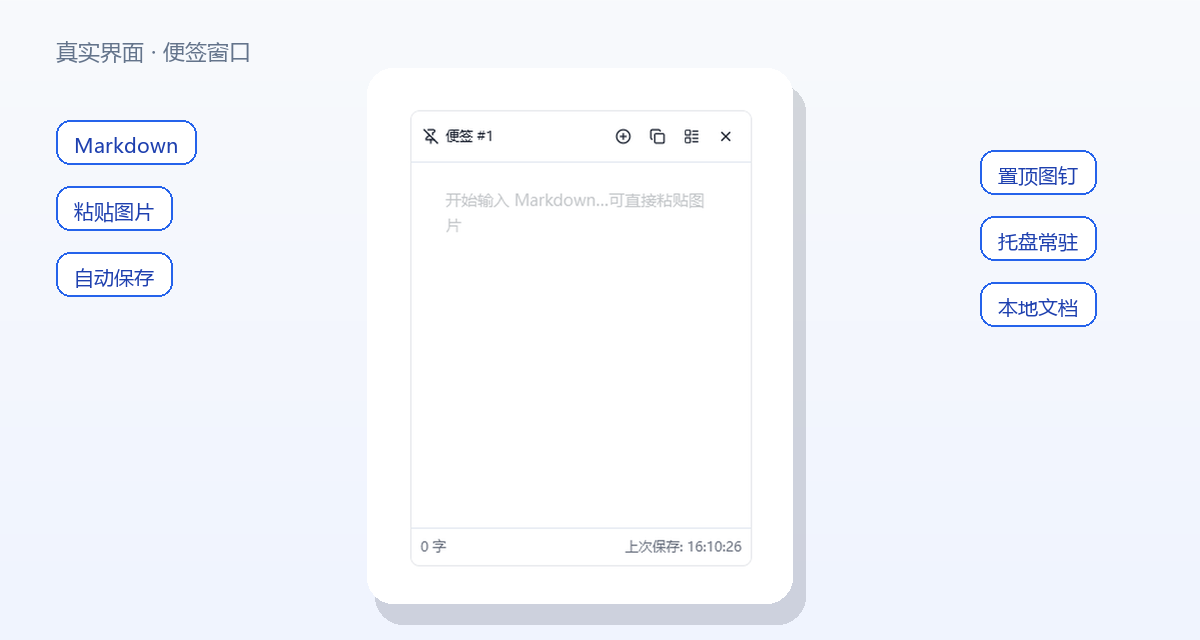
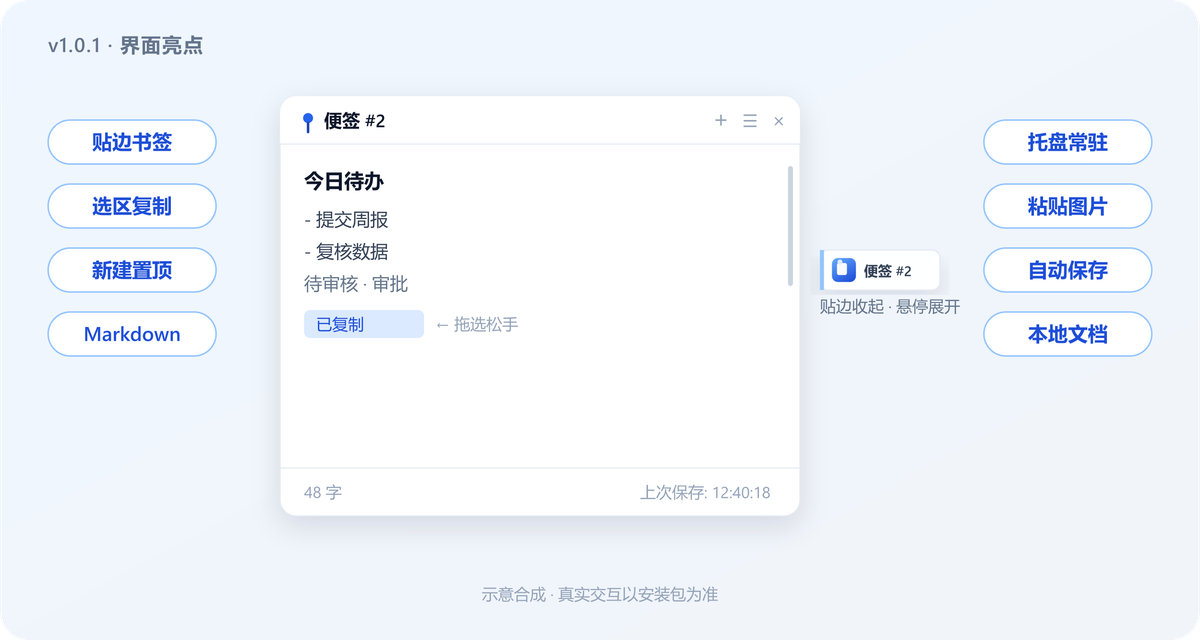
Docs: refresh README for v1.0.1 edge dock and copy features.
Update showcase/workflow visuals and link downloads to the GitHub release.

diff --git a/assets/readme/source/update_v101_visuals.py b/assets/readme/source/update_v101_visuals.py
@@ -1,0 +1,170 @@
+# -*- coding: utf-8 -*-
+"""Regenerate ArkNote README section visuals for v1.0.1 (hero PNG kept as-is)."""
+from pathlib import Path
+
+root = Path(r"D:\workspace\XYTX\ArkNote\assets\readme")
+root.mkdir(parents=True, exist_ok=True)
+
+workflow = """<?xml version="1.0" encoding="UTF-8"?>
+<svg xmlns="http://www.w3.org/2000/svg" width="100%" viewBox="0 0 1200 280" role="img" aria-labelledby="title desc">
+  <title id="title">ArkNote 工作方式</title>
+  <desc id="desc">托盘入口、贴边便签窗口与本地 Documents/ArkNote 目录协作。</desc>
+  <defs>
+    <linearGradient id="panel" x1="0" y1="0" x2="0" y2="1">
+      <stop offset="0%" stop-color="#FFFFFF"/>
+      <stop offset="100%" stop-color="#F8FAFC"/>
+    </linearGradient>
+  </defs>
+  <rect width="1200" height="280" rx="24" fill="#F1F5F9"/>
+  <g font-family="-apple-system, BlinkMacSystemFont, 'Segoe UI', 'PingFang SC', 'Microsoft YaHei', sans-serif">
+    <text x="48" y="48" fill="#64748B" font-size="18" font-weight="600" letter-spacing="1">HOW IT WORKS · v1.0.1</text>
+
+    <g transform="translate(48 72)">
+      <rect width="320" height="160" rx="20" fill="url(#panel)" stroke="#E2E8F0"/>
+      <circle cx="44" cy="44" r="18" fill="#DBEAFE"/>
+      <text x="38" y="51" fill="#1D4ED8" font-size="20" font-weight="700">1</text>
+      <text x="78" y="52" fill="#0F172A" font-size="24" font-weight="700">托盘</text>
+      <text x="28" y="96" fill="#475569" font-size="18">左键显示 · 右键设置</text>
+      <text x="28" y="126" fill="#475569" font-size="18">可选：新建默认置顶</text>
+    </g>
+
+    <path d="M388 152 L428 152" stroke="#93C5FD" stroke-width="3" stroke-linecap="round"/>
+    <path d="M416 140 L432 152 L416 164" fill="none" stroke="#60A5FA" stroke-width="3" stroke-linecap="round" stroke-linejoin="round"/>
+
+    <g transform="translate(440 72)">
+      <rect width="320" height="160" rx="20" fill="url(#panel)" stroke="#E2E8F0"/>
+      <circle cx="44" cy="44" r="18" fill="#DBEAFE"/>
+      <text x="38" y="51" fill="#1D4ED8" font-size="20" font-weight="700">2</text>
+      <text x="78" y="52" fill="#0F172A" font-size="24" font-weight="700">便签窗口</text>
+      <text x="28" y="96" fill="#475569" font-size="18">置顶贴边 → 书签收起</text>
+      <text x="28" y="126" fill="#475569" font-size="18">拖选松手自动复制</text>
+    </g>
+
+    <path d="M780 152 L820 152" stroke="#93C5FD" stroke-width="3" stroke-linecap="round"/>
+    <path d="M808 140 L824 152 L808 164" fill="none" stroke="#60A5FA" stroke-width="3" stroke-linecap="round" stroke-linejoin="round"/>
+
+    <g transform="translate(832 72)">
+      <rect width="320" height="160" rx="20" fill="url(#panel)" stroke="#E2E8F0"/>
+      <circle cx="44" cy="44" r="18" fill="#DBEAFE"/>
+      <text x="38" y="51" fill="#1D4ED8" font-size="20" font-weight="700">3</text>
+      <text x="78" y="52" fill="#0F172A" font-size="24" font-weight="700">本地目录</text>
+      <text x="28" y="96" fill="#475569" font-size="18">Documents/ArkNote</text>
+      <text x="28" y="126" fill="#475569" font-size="18">.md + .assets 清晰可管</text>
+    </g>
+  </g>
+</svg>
+"""
+
+showcase = """<?xml version="1.0" encoding="UTF-8"?>
+<svg xmlns="http://www.w3.org/2000/svg" width="100%" viewBox="0 0 1200 640" role="img" aria-labelledby="title desc">
+  <title id="title">ArkNote 1.0.1 界面亮点</title>
+  <desc id="desc">便签窗口、贴边书签、选区复制与托盘置顶等特性示意。</desc>
+  <defs>
+    <linearGradient id="bg" x1="0" y1="0" x2="1" y2="1">
+      <stop offset="0%" stop-color="#EFF6FF"/>
+      <stop offset="100%" stop-color="#F1F5F9"/>
+    </linearGradient>
+    <linearGradient id="mark" x1="0.2" y1="0" x2="0.8" y2="1">
+      <stop offset="0%" stop-color="#60A5FA"/>
+      <stop offset="100%" stop-color="#1D4ED8"/>
+    </linearGradient>
+    <filter id="cardShadow" x="-8%" y="-8%" width="116%" height="120%">
+      <feDropShadow dx="0" dy="10" stdDeviation="14" flood-color="#0F172A" flood-opacity="0.12"/>
+    </filter>
+  </defs>
+
+  <rect width="1200" height="640" rx="28" fill="url(#bg)"/>
+  <g font-family="-apple-system, BlinkMacSystemFont, 'Segoe UI', 'PingFang SC', 'Microsoft YaHei', sans-serif">
+    <text x="48" y="52" fill="#64748B" font-size="20" font-weight="600" letter-spacing="1">v1.0.1 · 界面亮点</text>
+
+    <!-- Left feature chips -->
+    <g transform="translate(48 120)">
+      <rect width="168" height="44" rx="22" fill="#FFFFFF" stroke="#93C5FD" stroke-width="1.5"/>
+      <text x="84" y="29" text-anchor="middle" fill="#1D4ED8" font-size="20" font-weight="600">贴边书签</text>
+    </g>
+    <g transform="translate(48 184)">
+      <rect width="168" height="44" rx="22" fill="#FFFFFF" stroke="#93C5FD" stroke-width="1.5"/>
+      <text x="84" y="29" text-anchor="middle" fill="#1D4ED8" font-size="20" font-weight="600">选区复制</text>
+    </g>
+    <g transform="translate(48 248)">
+      <rect width="168" height="44" rx="22" fill="#FFFFFF" stroke="#93C5FD" stroke-width="1.5"/>
+      <text x="84" y="29" text-anchor="middle" fill="#1D4ED8" font-size="20" font-weight="600">新建置顶</text>
+    </g>
+    <g transform="translate(48 312)">
+      <rect width="168" height="44" rx="22" fill="#FFFFFF" stroke="#93C5FD" stroke-width="1.5"/>
+      <text x="84" y="29" text-anchor="middle" fill="#1D4ED8" font-size="20" font-weight="600">Markdown</text>
+    </g>
+
+    <!-- Right feature chips -->
+    <g transform="translate(984 120)">
+      <rect width="168" height="44" rx="22" fill="#FFFFFF" stroke="#93C5FD" stroke-width="1.5"/>
+      <text x="84" y="29" text-anchor="middle" fill="#1D4ED8" font-size="20" font-weight="600">托盘常驻</text>
+    </g>
+    <g transform="translate(984 184)">
+      <rect width="168" height="44" rx="22" fill="#FFFFFF" stroke="#93C5FD" stroke-width="1.5"/>
+      <text x="84" y="29" text-anchor="middle" fill="#1D4ED8" font-size="20" font-weight="600">粘贴图片</text>
+    </g>
+    <g transform="translate(984 248)">
+      <rect width="168" height="44" rx="22" fill="#FFFFFF" stroke="#93C5FD" stroke-width="1.5"/>
+      <text x="84" y="29" text-anchor="middle" fill="#1D4ED8" font-size="20" font-weight="600">自动保存</text>
+    </g>
+    <g transform="translate(984 312)">
+      <rect width="168" height="44" rx="22" fill="#FFFFFF" stroke="#93C5FD" stroke-width="1.5"/>
+      <text x="84" y="29" text-anchor="middle" fill="#1D4ED8" font-size="20" font-weight="600">本地文档</text>
+    </g>
+
+    <!-- Main note window -->
+    <g transform="translate(280 96)" filter="url(#cardShadow)">
+      <rect width="520" height="420" rx="16" fill="#FFFFFF" stroke="#E2E8F0"/>
+      <!-- header -->
+      <rect width="520" height="48" rx="16" fill="#FFFFFF"/>
+      <rect y="32" width="520" height="16" fill="#FFFFFF"/>
+      <line x1="0" y1="48" x2="520" y2="48" stroke="#E2E8F0"/>
+      <!-- pin (active) -->
+      <g transform="translate(18 14)">
+        <circle cx="10" cy="8" r="5" fill="#2563EB"/>
+        <path d="M10 13 L10 22" stroke="#1E40AF" stroke-width="2.5" stroke-linecap="round"/>
+      </g>
+      <text x="44" y="31" fill="#0F172A" font-size="18" font-weight="600">便签 #2</text>
+      <text x="430" y="31" fill="#94A3B8" font-size="22">＋</text>
+      <text x="462" y="31" fill="#94A3B8" font-size="18">☰</text>
+      <text x="492" y="31" fill="#94A3B8" font-size="20">×</text>
+
+      <!-- body lines -->
+      <text x="24" y="92" fill="#0F172A" font-size="20" font-weight="600">今日待办</text>
+      <text x="24" y="130" fill="#334155" font-size="18">- 提交周报</text>
+      <text x="24" y="162" fill="#334155" font-size="18">- 复核数据</text>
+      <text x="24" y="194" fill="#64748B" font-size="18">待审核 · 审批</text>
+      <!-- selection hint -->
+      <rect x="24" y="214" width="120" height="28" rx="6" fill="#DBEAFE"/>
+      <text x="36" y="234" fill="#1D4ED8" font-size="16">已复制</text>
+      <text x="156" y="234" fill="#94A3B8" font-size="16">← 拖选松手</text>
+
+      <!-- thin scrollbar flush right -->
+      <rect x="508" y="70" width="5" height="120" rx="2.5" fill="#CBD5E1"/>
+
+      <!-- footer -->
+      <line x1="0" y1="372" x2="520" y2="372" stroke="#E2E8F0"/>
+      <text x="24" y="402" fill="#94A3B8" font-size="16">48 字</text>
+      <text x="360" y="402" fill="#94A3B8" font-size="16">上次保存: 12:40:18</text>
+    </g>
+
+    <!-- Edge bookmark (right edge of note area) -->
+    <g transform="translate(820 250)" filter="url(#cardShadow)">
+      <rect width="120" height="40" rx="8" fill="#FFFFFF" fill-opacity="0.95" stroke="#E2E8F0"/>
+      <rect x="0" y="0" width="4" height="40" fill="#93C5FD"/>
+      <rect x="12" y="8" width="24" height="24" rx="6" fill="url(#mark)"/>
+      <rect x="17" y="13" width="10" height="12" rx="2" fill="#F8FAFC"/>
+      <circle cx="20" cy="12" r="2.5" fill="#DBEAFE"/>
+      <text x="44" y="26" fill="#334155" font-size="14" font-weight="600">便签 #2</text>
+    </g>
+    <text x="820" y="312" fill="#64748B" font-size="16">贴边收起 · 悬停展开</text>
+
+    <text x="600" y="600" text-anchor="middle" fill="#94A3B8" font-size="16">示意合成 · 真实交互以安装包为准</text>
+  </g>
+</svg>
+"""
+
+(root / "workflow.svg").write_text(workflow, encoding="utf-8")
+(root / "showcase.svg").write_text(showcase, encoding="utf-8")
+print("wrote workflow.svg + showcase.svg")

diff --git a/assets/readme/source/write_svgs.py b/assets/readme/source/write_svgs.py
@@ -47,7 +47,7 @@ hero = """<?xml version="1.0" encoding="UTF-8"?>
 workflow = """<?xml version="1.0" encoding="UTF-8"?>
 <svg xmlns="http://www.w3.org/2000/svg" width="100%" viewBox="0 0 1200 280" role="img" aria-labelledby="title desc">
   <title id="title">ArkNote workflow</title>
-  <desc id="desc">Tray, note window, and Documents/ArkNote local folder.</desc>
+  <desc id="desc">Tray, edge-dock note window, and Documents/ArkNote local folder.</desc>
   <defs>
     <linearGradient id="panel" x1="0" y1="0" x2="0" y2="1">
       <stop offset="0%" stop-color="#FFFFFF"/>
@@ -56,14 +56,14 @@ workflow = """<?xml version="1.0" encoding="UTF-8"?>
   </defs>
   <rect width="1200" height="280" rx="24" fill="#F1F5F9"/>
   <g font-family="-apple-system, BlinkMacSystemFont, Segoe UI, PingFang SC, Microsoft YaHei, sans-serif">
-    <text x="48" y="48" fill="#64748B" font-size="18" font-weight="600" letter-spacing="1">HOW IT WORKS</text>
+    <text x="48" y="48" fill="#64748B" font-size="18" font-weight="600" letter-spacing="1">HOW IT WORKS · v1.0.1</text>
     <g transform="translate(48 72)">
       <rect width="320" height="160" rx="20" fill="url(#panel)" stroke="#E2E8F0"/>
       <circle cx="44" cy="44" r="18" fill="#DBEAFE"/>
       <text x="38" y="51" fill="#1D4ED8" font-size="20" font-weight="700">1</text>
       <text x="78" y="52" fill="#0F172A" font-size="24" font-weight="700">托盘</text>
-      <text x="28" y="96" fill="#475569" font-size="18">左键显示全部便签</text>
-      <text x="28" y="126" fill="#475569" font-size="18">右键新建 / 主题 / 关于</text>
+      <text x="28" y="96" fill="#475569" font-size="18">左键显示 · 右键设置</text>
+      <text x="28" y="126" fill="#475569" font-size="18">可选：新建默认置顶</text>
     </g>
     <path d="M388 152 L428 152" stroke="#93C5FD" stroke-width="3" stroke-linecap="round"/>
     <path d="M416 140 L432 152 L416 164" fill="none" stroke="#60A5FA" stroke-width="3" stroke-linecap="round" stroke-linejoin="round"/>
@@ -72,8 +72,8 @@ workflow = """<?xml version="1.0" encoding="UTF-8"?>
       <circle cx="44" cy="44" r="18" fill="#DBEAFE"/>
       <text x="38" y="51" fill="#1D4ED8" font-size="20" font-weight="700">2</text>
       <text x="78" y="52" fill="#0F172A" font-size="24" font-weight="700">便签窗口</text>
-      <text x="28" y="96" fill="#475569" font-size="18">Markdown · 粘贴图片</text>
-      <text x="28" y="126" fill="#475569" font-size="18">置顶 · 字数 · 自动保存</text>
+      <text x="28" y="96" fill="#475569" font-size="18">置顶贴边 → 书签收起</text>
+      <text x="28" y="126" fill="#475569" font-size="18">拖选松手自动复制</text>
     </g>
     <path d="M780 152 L820 152" stroke="#93C5FD" stroke-width="3" stroke-linecap="round"/>
     <path d="M808 140 L824 152 L808 164" fill="none" stroke="#60A5FA" stroke-width="3" stroke-linecap="round" stroke-linejoin="round"/>

diff --git a/README.md b/README.md
@@ -1,42 +1,42 @@
 <p align="center">
-  <img src="./assets/readme/hero.png" width="100%" alt="ArkNote logo — Windows 桌面便签，托盘常驻，Markdown 编辑并保存到本地文档">
+  <img src="./assets/readme/hero.png" width="100%" alt="ArkNote — Windows 桌面便签，托盘常驻，Markdown 编辑并保存到本地文档">
 </p>
 
 <p align="center">
-  <a href="https://github.com/xiaoyangtx996/ArkNote"><img src="https://img.shields.io/badge/platform-Windows-1D4ED8?style=flat-square" alt="Windows"></a>
+  <a href="https://github.com/xiaoyangtx996/ArkNote/releases/tag/v1.0.1"><img src="https://img.shields.io/badge/download-v1.0.1-2563EB?style=flat-square" alt="Download v1.0.1"></a>
+  <img src="https://img.shields.io/badge/platform-Windows-1D4ED8?style=flat-square" alt="Windows">
   <img src="https://img.shields.io/badge/stack-Tauri%202%20%2B%20React-0F172A?style=flat-square" alt="Tauri 2 + React">
-  <img src="https://img.shields.io/badge/version-1.0.1-2563EB?style=flat-square" alt="v1.0.1">
 </p>
 
-**ArkNote** 是一款托盘常驻的 Windows 桌面便签：每张便签一个原生窗口，支持 Markdown 与直接粘贴图片，内容自动写入「文档 / ArkNote」。
+**ArkNote** 是托盘常驻的 Windows 桌面便签：每张便签一个原生窗口，支持 Markdown 与粘贴图片，内容自动写入「文档 / ArkNote」。v1.0.1 起，置顶便签可贴边收起为书签，拖选松手即可复制。
 
 <p align="center">
-  <img src="./assets/readme/showcase.png" width="100%" alt="ArkNote 便签窗口截图：Markdown 编辑、字数统计与自动保存">
+  <img src="./assets/readme/showcase.png" width="100%" alt="ArkNote 1.0.1：便签窗口、贴边书签、选区复制与托盘置顶等亮点">
 </p>
 
 ## 它能做什么
 
-- **托盘常驻** — 左键显示全部便签，右键新建、切换主题、打开关于页
-- **独立窗口** — 透明背景，只露出便签本体；可置顶、新建、从列表管理
-- **Markdown + 图片** — Vditor IR 编辑；粘贴图片按 Typora 风格落到 `note-{id}.assets/`
-- **自动保存** — 正文写入 `note-{id}.md`，窗口几何与主题记在 `index.json`
-- **本地可管** — 从列表删除便签时，同步清理对应 `.md` 与资源目录
+- **托盘常驻** — 左键显示全部便签；右键新建、主题、设置与关于
+- **贴边书签** — 置顶后靠近屏幕边缘，收起为 logo + 标题标签；悬停展开
+- **选区复制** — 拖选文字松手后自动写入剪贴板，选区旁浅色提示
+- **新建默认置顶** — 托盘「设置」可开关，新建便签直接置顶
+- **Markdown + 图片** — Vditor IR；粘贴图片落到 `note-{id}.assets/`（Typora 风格相对路径）
+- **自动保存** — 正文进 `note-{id}.md`，几何 / 主题记在 `index.json`
 
 <p align="center">
-  <img src="./assets/readme/workflow.svg" width="100%" alt="托盘、便签窗口与 Documents/ArkNote 本地目录的三步协作">
+  <img src="./assets/readme/workflow.svg" width="100%" alt="托盘、贴边便签窗口与 Documents/ArkNote 本地目录三步协作">
 </p>
 
 ## 快速开始
 
-### 安装包
+### 下载安装（推荐）
 
-构建产物：
+从 [Releases · v1.0.1](https://github.com/xiaoyangtx996/ArkNote/releases/tag/v1.0.1) 获取：
 
-```text
-src-tauri/target/release/bundle/nsis/ArkNote_1.0.1_x64-setup.exe
-```
-
-安装后从开始菜单或托盘启动。
+| 文件 | 说明 |
+| --- | --- |
+| `ArkNote_1.0.1_x64-setup.exe` | NSIS 安装包 |
+| `ArkNote_1.0.1_x64.zip` | 绿色版，解压后运行 `ArkNote.exe` |
 
 ### 开发运行
 
@@ -45,31 +45,32 @@ npm install
 npm run tauri:dev
 ```
 
-仅预览前端（数据走 localStorage，不落盘图片）：
+仅预览前端（localStorage，不落盘图片）：
 
 ```bash
 npm run dev
 ```
 
-### 打包
+### 本地打包
 
 ```bash
 npm run tauri:build
 ```
+
+产物：`src-tauri/target/release/bundle/nsis/ArkNote_1.0.1_x64-setup.exe`
 
 ## 怎么用
 
 | 操作 | 说明 |
 | --- | --- |
 | 托盘左键 | 显示所有便签窗口 |
-| 托盘右键 | 显示便签 / 新建 / 颜色主题 / 关于 / 退出 |
+| 托盘右键 | 显示便签 / 新建 / 主题 / **设置（新建默认置顶）** / 关于 / 退出 |
 | `Ctrl+N` | 新建便签 |
-| 便签标题栏 | 置顶、新建、列表、关闭 |
+| 置顶 + 贴边 | 靠近屏幕边缘 → 收起为书签；悬停或聚焦展开 |
+| 拖选文字 | 松手后自动复制，选区末尾提示「已复制」 |
 | 编辑区 | Markdown 输入，可直接粘贴图片 |
 
 ## 数据目录
-
-正式路径在用户「文档」下：
 
 ```text
 Documents/ArkNote/
@@ -77,6 +78,8 @@ Documents/ArkNote/
   note-{id}.md        # 便签正文（自动保存）
   note-{id}.assets/   # 图片资源（相对路径引用）
 ```
+
+从列表删除便签时，会同步清理对应 `.md` 与资源目录。
 
 ## 技术栈
 
@@ -91,5 +94,5 @@ Documents/ArkNote/
 
 ## 链接
 
-- GitHub：https://github.com/xiaoyangtx996/ArkNote
-- 关于页内也可打开同一仓库地址
+- 仓库：https://github.com/xiaoyangtx996/ArkNote
+- 最新版：https://github.com/xiaoyangtx996/ArkNote/releases/latest
